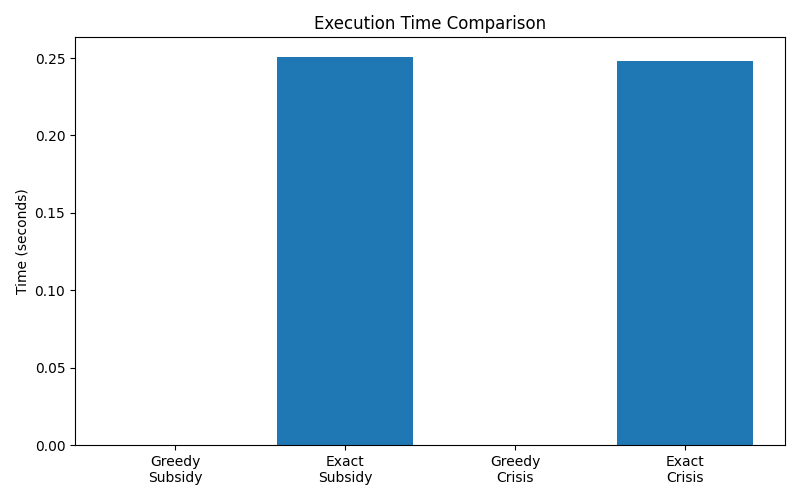
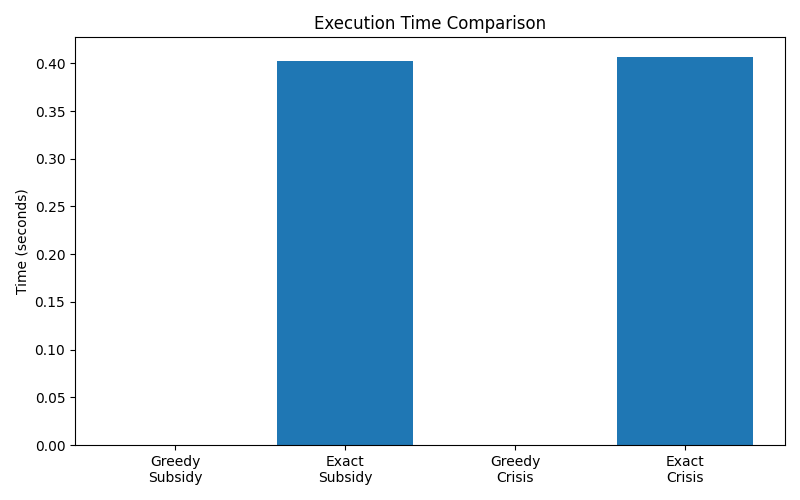
finalize readme

diff --git a/src/loader.py b/src/loader.py
@@ -13,7 +13,7 @@ def load_locations(filename):
             locations.append({
                 "id": int(row["id"]),
                 "name": row["locations"],
-                "weight (kg)": float(row["weight (kg)"])
+                "weight": float(row["weight (kg)"])
             })
 
     return locations

diff --git a/README.md b/README.md
@@ -1,4 +1,272 @@
-# uas-praktikum-analgo-kel5
+# Optimasi Rute Last Mile Delivery Menggunakan Greedy Nearest Neighbor dan Held-Karp Dynamic Programming
+
 <img width="2848" height="2480" alt="graf" src="https://github.com/user-attachments/assets/886ec820-9d7a-4c67-a9c6-f9728a5f56ff" />
 
-halo tes tes
+## Deskripsi Proyek
+
+Proyek ini dibuat untuk memenuhi Tugas Besar Praktikum Analisis Algoritma.
+
+Studi kasus yang digunakan adalah optimasi rute **Last Mile Delivery**, yaitu proses menentukan rute pengiriman barang dari gudang (hub) menuju seluruh lokasi pelanggan dan kembali lagi ke hub.
+
+Pada proyek ini dilakukan perbandingan antara dua pendekatan algoritma, yaitu:
+
+- **Algoritma Heuristik:** Greedy Nearest Neighbor (NN)
+- **Algoritma Eksak:** Held-Karp Dynamic Programming (DP)
+
+Perbandingan dilakukan berdasarkan dua aspek utama:
+
+- Kinerja algoritma (Execution Time)
+- Biaya operasional (Total Cost of Ownership / TCO)
+
+TCO dihitung berdasarkan:
+
+- Fuel Cost (Biaya Bahan Bakar)
+- Server Cost (Biaya Komputasi)
+
+Selain itu, program juga mendukung beberapa skenario ekonomi berdasarkan perubahan harga BBM.
+
+---
+
+# Struktur Proyek
+
+```
+uas-praktikum-analgo-kel5
+│
+├── data/
+│   ├── locations_dataset.csv
+│   ├── distance_matrix_dataset.csv
+│   └── scenario.json
+│
+├── docs/
+│   ├── execution_time.png
+│   ├── fuel_cost.png
+│   └── tco.png
+│
+├── src/
+│   ├── loader.py
+│   ├── heuristic.py
+│   ├── exact.py
+│   ├── cost.py
+│   └── main.py
+│
+└── README.md
+```
+
+---
+
+# Cara Menjalankan Program
+
+Pastikan Python telah terinstal pada komputer.
+
+Install library yang diperlukan:
+
+```bash
+pip install matplotlib
+```
+
+Kemudian jalankan program dengan perintah:
+
+```bash
+python src/main.py
+```
+
+Program akan secara otomatis:
+
+- Membaca seluruh dataset
+- Menjalankan algoritma Greedy Nearest Neighbor
+- Menjalankan algoritma Held-Karp Dynamic Programming
+- Menghitung Fuel Cost
+- Menghitung Server Cost
+- Menghitung Total Cost of Ownership (TCO)
+- Membuat grafik perbandingan hasil
+
+Seluruh grafik akan disimpan pada folder:
+
+```
+docs/
+```
+
+---
+
+# Pemilihan Algoritma
+
+## 1. Algoritma Heuristik
+
+### Greedy Nearest Neighbor (NN)
+
+Greedy Nearest Neighbor bekerja dengan memilih lokasi terdekat yang belum dikunjungi pada setiap langkah.
+
+### Kelebihan
+
+- Waktu eksekusi sangat cepat
+- Implementasi sederhana
+- Cocok untuk data berukuran besar
+
+### Kekurangan
+
+- Tidak menjamin solusi optimal
+- Dapat menghasilkan rute yang kurang efisien
+
+---
+
+## 2. Algoritma Eksak
+
+### Held-Karp Dynamic Programming (DP)
+
+Held-Karp merupakan algoritma Dynamic Programming yang digunakan untuk menyelesaikan Traveling Salesman Problem (TSP) secara optimal.
+
+### Kelebihan
+
+- Menjamin rute terbaik (global optimum)
+- Menghasilkan total jarak minimum
+
+### Kekurangan
+
+- Membutuhkan waktu komputasi yang lebih besar
+- Membutuhkan memori yang lebih banyak
+
+---
+
+# Trade-off Pemilihan Algoritma
+
+Greedy Nearest Neighbor mengutamakan kecepatan komputasi dengan mengorbankan optimalitas solusi.
+
+Sebaliknya, Held-Karp Dynamic Programming mengutamakan pencarian solusi terbaik dengan konsekuensi waktu komputasi yang jauh lebih besar.
+
+Dengan demikian:
+
+- Greedy lebih cocok digunakan pada sistem yang membutuhkan respon cepat dan jumlah lokasi yang banyak.
+- Held-Karp lebih cocok digunakan ketika kualitas solusi menjadi prioritas utama.
+
+---
+
+# Analisis Kompleksitas (Big-O)
+
+## Greedy Nearest Neighbor
+
+Algoritma melakukan pencarian node terdekat untuk setiap node yang dikunjungi.
+
+Loop luar:
+
+```
+O(n)
+```
+
+Loop dalam:
+
+```
+O(n)
+```
+
+Sehingga kompleksitas waktunya adalah:
+
+```
+Time Complexity = O(n²)
+```
+
+Kompleksitas ruang:
+
+```
+Space Complexity = O(n)
+```
+
+karena hanya menyimpan array visited dan route.
+
+---
+
+## Held-Karp Dynamic Programming
+
+Held-Karp membangun seluruh state Dynamic Programming berdasarkan subset node.
+
+Jumlah state:
+
+```
+2ⁿ × n
+```
+
+Setiap state melakukan transisi sebanyak:
+
+```
+n
+```
+
+Sehingga:
+
+```
+Time Complexity = O(n² × 2ⁿ)
+```
+
+Kompleksitas ruang:
+
+```
+Space Complexity = O(n × 2ⁿ)
+```
+
+Kompleksitas ini menyebabkan Held-Karp kurang cocok digunakan pada jumlah node yang besar.
+
+---
+
+# Hasil Simulasi
+
+Simulasi dilakukan menggunakan dua skenario ekonomi:
+
+1. **Subsidy**
+2. **Crisis**
+
+Hasil simulasi menunjukkan bahwa:
+
+- Held-Karp menghasilkan rute yang lebih pendek dibanding Greedy.
+- Konsumsi bahan bakar menjadi lebih rendah.
+- Biaya komputasi server meningkat karena waktu eksekusi lebih lama.
+- Secara keseluruhan nilai TCO algoritma Held-Karp lebih kecil dibanding Greedy.
+
+---
+
+# Analisis Titik Break-Even
+
+Berdasarkan hasil simulasi:
+
+### Skenario Subsidi
+
+- TCO Greedy ≈ Rp 7.036,57
+- TCO Held-Karp ≈ Rp 6.098,94
+
+### Skenario Krisis
+
+- TCO Greedy ≈ Rp 28.146,26
+- TCO Held-Karp ≈ Rp 24.354,92
+
+Biaya server tambahan yang dibutuhkan Held-Karp relatif sangat kecil dibanding penghematan biaya bahan bakar yang diperoleh dari rute yang lebih optimal.
+
+Dengan model biaya yang digunakan pada proyek ini, **algoritma Held-Karp sudah memberikan keuntungan ekonomi bahkan pada harga BBM Rp5.000/liter**, sehingga tidak diperlukan harga BBM yang lebih tinggi agar algoritma eksak menjadi lebih menguntungkan.
+
+---
+
+# Visualisasi
+
+## Gambar Graf Lokasi
+![Execution Time](docs/locations_graph.jpeg)
+---
+
+## Perbandingan Execution Time
+![Execution Time](docs/execution_time.png)
+
+---
+
+## Perbandingan Fuel Cost
+![Fuel Cost](docs/fuel_cost.png)
+---
+
+## Perbandingan Total Cost of Ownership (TCO)
+![TCO](docs/tco.png)
+---
+
+# Kesimpulan
+
+Greedy Nearest Neighbor memiliki kompleksitas waktu **O(n²)** sehingga sangat cepat dan cocok digunakan untuk kebutuhan komputasi real-time.
+
+Held-Karp Dynamic Programming memiliki kompleksitas **O(n² × 2ⁿ)** sehingga membutuhkan waktu komputasi lebih besar, namun mampu menghasilkan rute optimal dengan total jarak yang lebih pendek.
+
+Berdasarkan hasil simulasi pada proyek ini, penghematan biaya bahan bakar yang diperoleh dari Held-Karp lebih besar dibanding tambahan biaya komputasi server, sehingga menghasilkan **Total Cost of Ownership (TCO) yang lebih rendah**.
+
+Oleh karena itu, untuk dataset dan model biaya yang digunakan pada proyek ini, **Held-Karp Dynamic Programming menjadi algoritma yang direkomendasikan dari sudut pandang bisnis**, sedangkan **Greedy Nearest Neighbor tetap menjadi pilihan yang baik ketika kecepatan komputasi menjadi prioritas utama**.